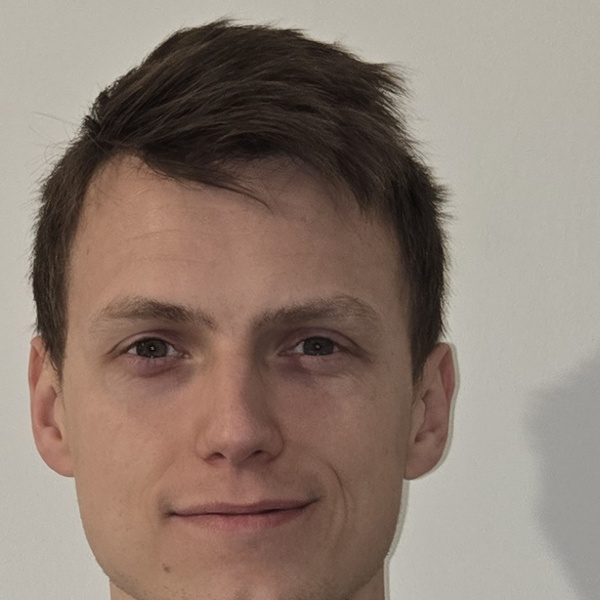
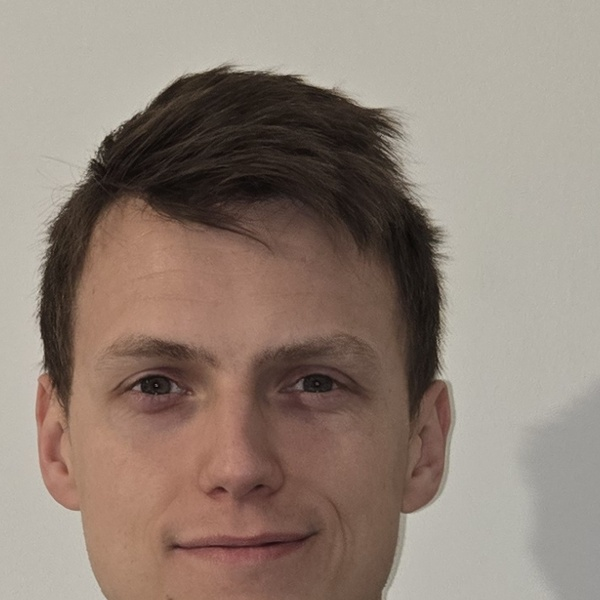
fix: photo cercle 160px + crop visage complet centré

diff --git a/style.css b/style.css
@@ -244,17 +244,17 @@ img { display: block; max-width: 100%; }
 /* ── HERO PHOTO ──────────────────────────────────── */
 .hero__photo-wrap {
   position: relative;
-  width: 110px;
-  height: 110px;
+  width: 160px;
+  height: 160px;
   margin-bottom: 28px;
   animation: fadeUp 0.5s ease both;
 }
 .hero__photo {
-  width: 110px;
-  height: 110px;
+  width: 160px;
+  height: 160px;
   border-radius: 50%;
   object-fit: cover;
-  object-position: center top;
+  object-position: center center;
   border: 3px solid var(--surface-2);
   display: block;
   position: relative;
